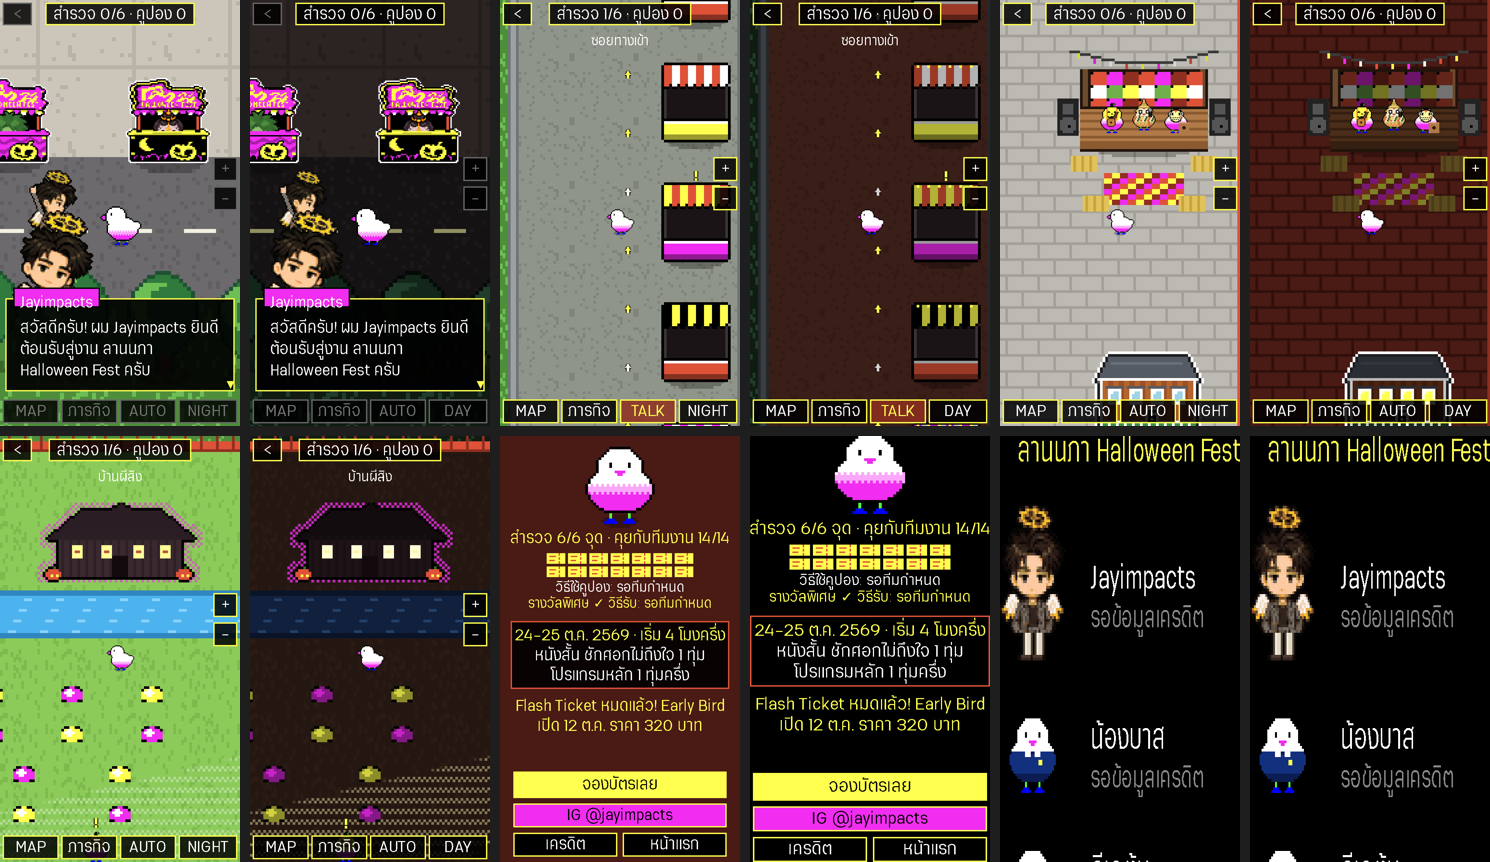
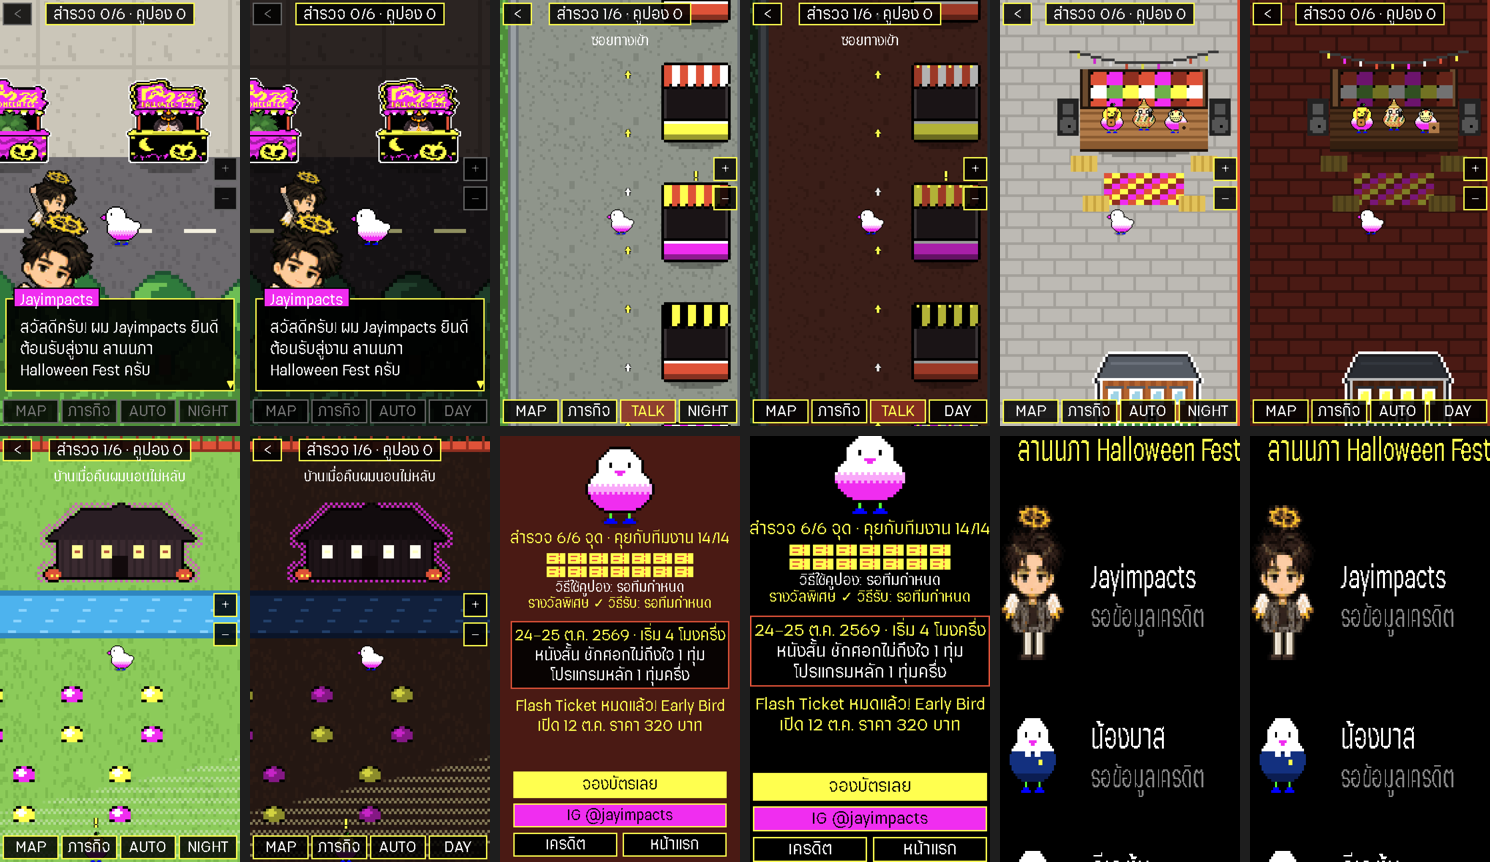
Scene 3: pixelated text, haunted house goal renamed (owner)
All text rasterised at 2 canvas px per design px with hard edges (TEXT_RES):
pixelated but readable; 1 px per design px lost Thai letters. The haunted
house goal is now บ้านเมื่อคืนผมนอนไม่หลับ. The gear halo stays (owner).

Claude-Session: https://claude.ai/code/session_01Fe5UomiUQN5FvRh91y8j5k

diff --git a/src/scene3/ui/text.js b/src/scene3/ui/text.js
@@ -1,9 +1,9 @@
 // Scene 3 text: Serithai (Kanit as the web fallback), 12 px, crisp (scene 2's alpha snapping
 // patch), wrapped at Thai word boundaries (Intl.Segmenter, else by grapheme cluster, so a
 // combining mark never starts a line).
-import { textStyle as baseStyle } from '../../ui/text.js';
+import { textStyle as baseStyle, pixelated } from '../../ui/text.js';
 import { wrapText } from '../../logic/textWrap.js';
-import { FONT, FONT_PX } from '../config.js';
+import { FONT, FONT_PX, TEXT_RES } from '../config.js';
 
 let ctx = null;
 export function measure(px = FONT_PX) {
@@ -16,13 +16,14 @@ export function measure(px = FONT_PX) {
 
 export const wrap = (text, width, px = FONT_PX) => wrapText(text, width, measure(px));
 
-export function style(px = FONT_PX, color = '#FFFFFF', extra = {}) {
-  return { ...baseStyle(px, color), fontFamily: FONT, ...extra };
+/** res: canvas px per design px (TEXT_RES: pixelated but readable). */
+export function style(px = FONT_PX, color = '#FFFFFF', extra = {}, res = TEXT_RES) {
+  return { ...baseStyle(px, color, false, res), fontFamily: FONT, ...extra };
 }
 
 /** A text object on whole design pixels, origin top-left (or centred with align 'center'). */
-export function label(scene, x, y, str, { px = FONT_PX, color = '#FFFFFF', align = 'left', depth = 0 } = {}) {
-  const t = scene.add.text(Math.round(x), Math.round(y), str, style(px, color)).setDepth(depth);
+export function label(scene, x, y, str, { px = FONT_PX, color = '#FFFFFF', align = 'left', depth = 0, res = TEXT_RES } = {}) {
+  const t = pixelated(scene.add.text(Math.round(x), Math.round(y), str, style(px, color, {}, res)).setDepth(depth));
   if (align === 'center') t.setOrigin(0.5, 0);
   return t;
 }

diff --git a/src/scene3/data/script.js b/src/scene3/data/script.js
@@ -26,7 +26,7 @@ export const GOALS = [
   { id: 'desk', name: 'จุดลงทะเบียน', line: 'จุดลงทะเบียนหน้างาน' },
   { id: 'tables', name: 'โซนโต๊ะจัดเลี้ยง', line: 'นั่งกินข้าวพร้อมชมบรรยากาศงาน' },
   { id: 'cinema', name: 'จอหนังกลางแปลงและบีนแบ็ก', line: 'หนังสั้นเริ่ม 1 ทุ่ม โปรแกรมหลักเริ่ม 1 ทุ่มครึ่ง' },
-  { id: 'haunted', name: 'บ้านผีสิง', line: 'อยู่ฝั่งตรงข้ามคลองบางหลวง กล้าเข้าไหม?' },
+  { id: 'haunted', name: 'บ้านเมื่อคืนผมนอนไม่หลับ', line: 'อยู่ฝั่งตรงข้ามคลองบางหลวง กล้าเข้าไหม?' },
 ];
 
 // ---- HUD and banners ----

diff --git a/src/scene3/config.js b/src/scene3/config.js
@@ -77,6 +77,9 @@ export const EVENT_END = '2026-10-25';
 // TODO(owner): the Serithai licence for web embedding is still open. Kanit is the web fallback.
 export const FONT = '"Lannapha Serithai", "Kanit", sans-serif';
 export const FONT_PX = 12;
+// Text is rasterised at TEXT_RES canvas px per design px and scaled up with hard edges:
+// pixelated like the art, still easy to read (scene 2's chatbox uses 2 as well).
+export const TEXT_RES = 2;
 export const LINE_H = 16; // 3 lines of 12 px Thai text in the dialogue box, stacked marks included
 
 // ---- Day / night ----

diff --git a/src/scene3/ui/Dialogue.js b/src/scene3/ui/Dialogue.js
@@ -51,7 +51,7 @@ export class Dialogue {
       const w = Math.ceil(this.tag.width) - 8 + 10;
       g.fillStyle(0xf02df0, 1).fillRect(BOX.x + 6, BOX.y - 8, w, 15);
       g.lineStyle(1, 0x000000, 1).strokeRect(BOX.x + 6.5, BOX.y - 7.5, w - 1, 14);
-      this.tag.setPosition(BOX.x + 6 + 5 - 4, BOX.y - 8 - 4 + 1);
+      this.tag.setPosition(BOX.x + 6 + 5 - 4, BOX.y - 8 - 4 - 1);
     } else this.tag.setVisible(false);
     this.lines.forEach((t, k) => t.setText(b.lines[k] ?? '').setVisible(true));
     this.portrait.setVisible(!!this.opts.portrait).setFrame(0);

diff --git a/SCENE3.md b/SCENE3.md
@@ -77,6 +77,13 @@ stall touch point and the exit can still be reached by walking.
 3. Optionally add a tour stop to `TOUR` in `world.js`. The chip text says `n/6`; if the number of goals
    changes, update `chipText`, `exitTooEarly` and `summaryText` in `script.js` (the 6 is in the owner's text).
 
+## Text
+
+All scene 3 text is Serithai 12 px (Kanit as the web fallback), rasterised at `TEXT_RES` (config, 2)
+canvas px per design px and scaled up with hard edges: pixelated like the art but readable. At 1 the
+12 px Thai loses letters (m merges into n, stacked marks crowd), so 2 is the setting. Thai wraps at
+word boundaries (Intl.Segmenter).
+
 ## Controls
 
 Hold a finger anywhere to walk toward it (a cross marks the target), or arrows/WASD. Tap a character to
